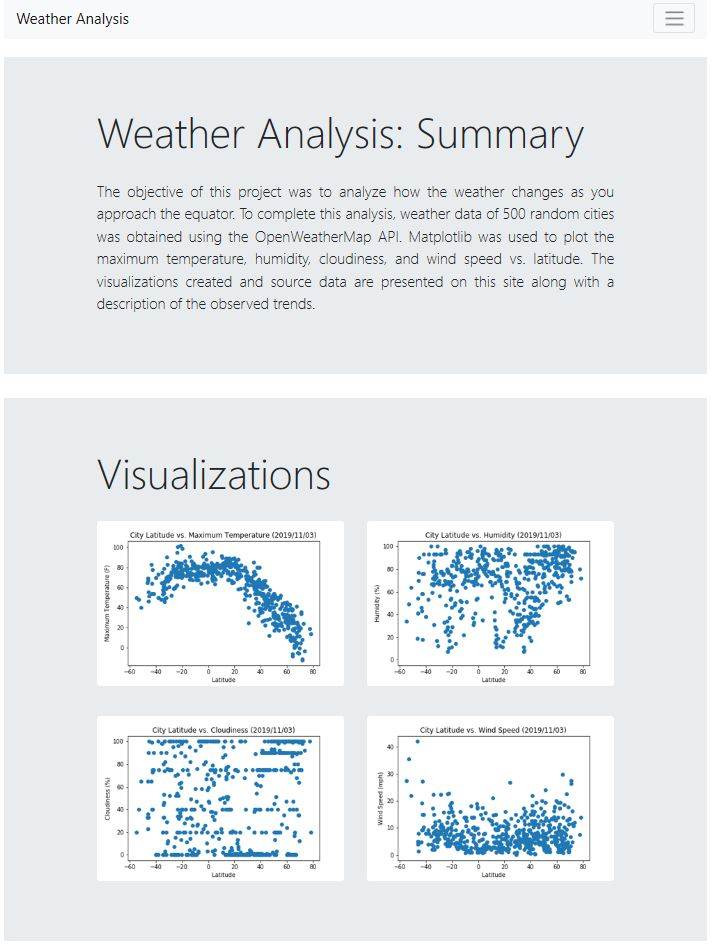
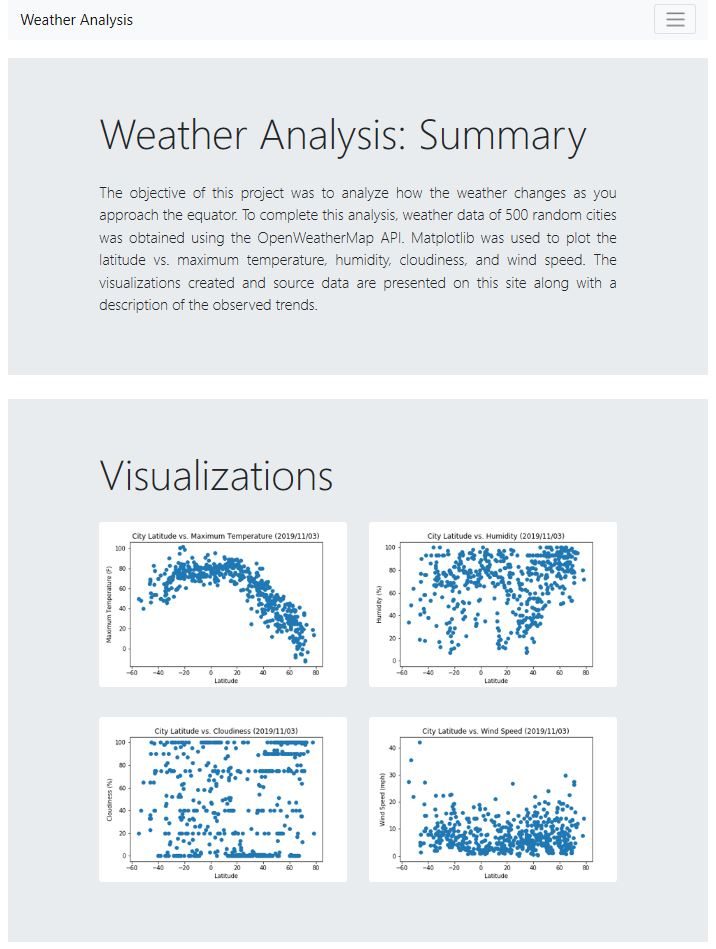
Edit ReadMe, index, and screenshots

diff --git a/index.html b/index.html
@@ -50,7 +50,7 @@
                         </br>
                         <p class="lead text-justify">The objective of this project was to analyze how the weather changes as you approach the equator. 
                             To complete this analysis, weather data of 500 random cities was obtained using the OpenWeatherMap API. 
-                            Matplotlib was used to plot the maximum temperature, humidity, cloudiness, and wind speed vs. latitude. 
+                            Matplotlib was used to plot the latitude vs. maximum temperature, humidity, cloudiness, and wind speed. 
                             The visualizations created and source data are presented on this site along with a description of the observed trends.
                         </p>
                     </div>

diff --git a/README.md b/README.md
@@ -1,7 +1,7 @@
 # Web Visualizations
 
 ## **Objective:**
-The objective of this project is to create a website with Bootstrap to show how the weather changes as you approach the equator (maximum temperature, humidity, cloudiness, and wind speed vs. latitude). The visualizations created in the previous WeatherPy project and the source data used are presented along with a description of the observed trends. 
+The objective of this project is to create a website with Bootstrap to show how the weather changes as you approach the equator ( latitude vs. maximum temperature, humidity, cloudiness, and wind speed). The visualizations created in the previous WeatherPy project and the source data used are presented along with a description of the observed trends. 
 
 The website has a navigation menu at the top of each page and each page is responsive. The website contains 7 pages including: 
 * Landing page with an explanation of the project.
